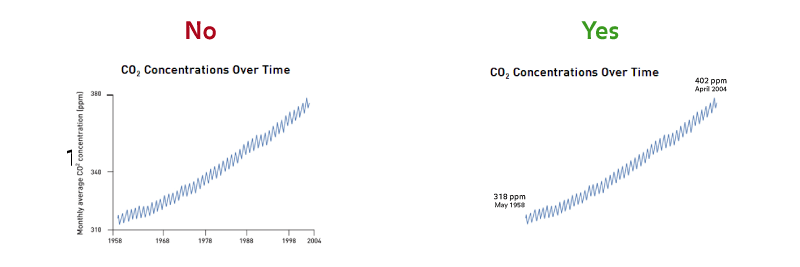
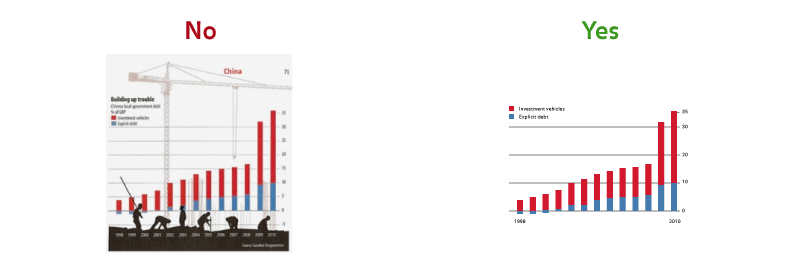
update design principles examples

Changed region(s): [[0.0938, 0.2397, 0.4062, 0.9588], [0.5938, 0.2697, 0.9062, 0.839], [0.5938, 0.2397, 0.8438, 0.2996]]

diff --git a/css/main.scss b/css/main.scss
@@ -221,6 +221,32 @@ img.bordered {
   }
 }
 
+.design-principles {
+  table {
+    border: none;
+    width: 100%;
+    max-width: 750px;
+  }
+  table td,
+  table th {
+    border: none;
+  }
+  table th {
+    text-align: center;
+    font-size: 1.4em;
+    color: #3a991f;
+    &:first-child {
+      color: #ac061b;
+    }
+  }
+  table img {
+    display: inline-block;
+  }
+  table td {
+    text-align: center;
+  }
+}
+
 @media (max-width: $containerWidth) {
   .container {
     width: auto;

diff --git a/_layouts/page.html b/_layouts/page.html
@@ -19,7 +19,7 @@
     </div>
   </header>
 
-  <div class="container {{ page.id }} main">
+  <div class="container {{ page.uid }} main">
     {{ content }}
   </div>
 

diff --git a/_design/principles.md b/_design/principles.md
@@ -1,6 +1,6 @@
 ---
 layout: page
-id: design-sketches
+uid: design-principles
 title: Design goals, principles, and language
 ---
 
@@ -13,39 +13,34 @@ This page will speak to the goals and principles that will inform all design dec
 ![Climate wall goals](../assets/goals.png)
 
 1. **Teach climate change** - specific lessons and messages about climate and climate change should be delivered by viewing and interacting with the Climate Wall. In particular:
+    - Climate is a complex system
     - Climate change is happening
     - Human activity is the primary driver of climate change, in particular the burning of fossil fuels
     - Climate change has and will have significant human impacts
 2. **Leave an impression** - the experience of viewing and interacting with the Climate Wall should be memorable, fun, and exciting
-3. **Be [inclusive](https://www.ncsu.edu/ncsu/design/cud/about_ud/udprinciplestext.htm)** - the experience should be accessible by a broad and diverse audience without special adaptation to specific needs. This can be accomplished through being:
+    - Give visitors an _aha!_ moment
+3. **Be inclusive** - the experience should be [universally](https://www.ncsu.edu/ncsu/design/cud/about_ud/udprinciplestext.htm) accessible by a broad and diverse audience without special adaptation to specific needs. This can be accomplished through being:
     - **Simple and intuitive** - easy to understand regardless of knowledge, cognitive abilities, language skills, or focus levels
     - **Perceptible** - information is communicated regardless of ambient conditions or sensory abilities
 
-The primary function of the wall is to teach climate change (Goal 1.) Goals (2) and (3) is more about the "how." Usually, the better Goals (2) and (3) are executed, the better Goal (1) is fulfilled.
+The primary function of the wall is to teach climate change (Goal 1.) Goals (2) and (3) is more about the "how." Usually, the better Goals (2) and (3) are executed, the better Goal (1) is fulfilled, i.e. all three goals are complementary.
 
 ### Design principles
 
 This section will set forth a general design strategy for representing content on the Climate Wall. Examples for good and bad implementations are given using existing media.
 
 1. **Clear and bold, graphic by default** - Graphic over illustrative or photographic where possible, intentional use of color, type, and space
+   ![Clear and bold, graphic by default](../assets/principles-graphic.png)
 2. **Say more with less** - Eliminate unnecessary design elements, reduce complexity, give emphasis to essential design elements
    ![Say more with less](../assets/principles-reduce.png)
 3. **Leverage metaphors** - Use familiar concepts and cues to create intuitive experiences
    ![Leverage metaphors](../assets/principles-metaphors.png)
 4. **Use motion and sound sparingly and intentionally** - Motion and sound should convey and reinforce meaning, leave an impression
 
-### Visual language
+   | No | Yes |
+   |---|---|
+   | ![Say more with less](../assets/solar-system-no.gif) | ![Say more with less](../assets/solar-system-yes.gif) |
 
-The following section will speak broadly to how we will communicate certain ideas using visuals.
+### Design language
 
-### Interaction design
-
-This section will primarily speak to the physical controls that drive the interactive displays, and how we will use specific types of interactions to communicate specific ideas.
-
-### Sound design
-
-This section will speak to the use of sound on the Climate Wall
-
-### Design inspirations
-
-Based on the design principles outlined above, here are some examples of them done well.
+The following section will speak broadly to how we will communicate certain ideas using visuals, text, interaction, motion, and sound.

diff --git a/_design/README.md b/_design/README.md
@@ -1,6 +1,6 @@
 ---
 layout: page
-id: design-start
+uid: design-start
 title: Design and development primer
 ---
 

diff --git a/_design/sketches.md b/_design/sketches.md
@@ -1,6 +1,6 @@
 ---
 layout: page
-id: design-sketches
+uid: design-sketches
 title: Sketches and mock-ups
 ---
 

diff --git a/_tech/README.md b/_tech/README.md
@@ -1,6 +1,6 @@
 ---
 layout: page
-id: tech-start
+uid: tech-start
 title: Technical considerations
 ---
 

diff --git a/_research/README.md b/_research/README.md
@@ -1,6 +1,6 @@
 ---
 layout: page
-id: research-start
+uid: research-start
 title: User research
 ---
 

diff --git a/index.md b/index.md
@@ -1,6 +1,6 @@
 ---
 layout: page
-id: home
+uid: home
 title: Table of contents
 ---
 
